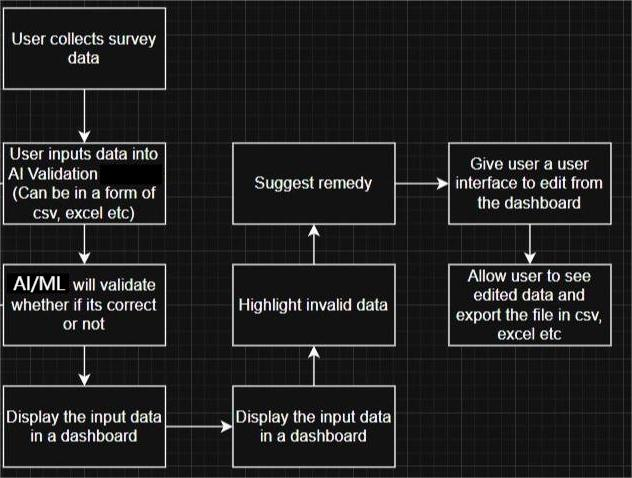
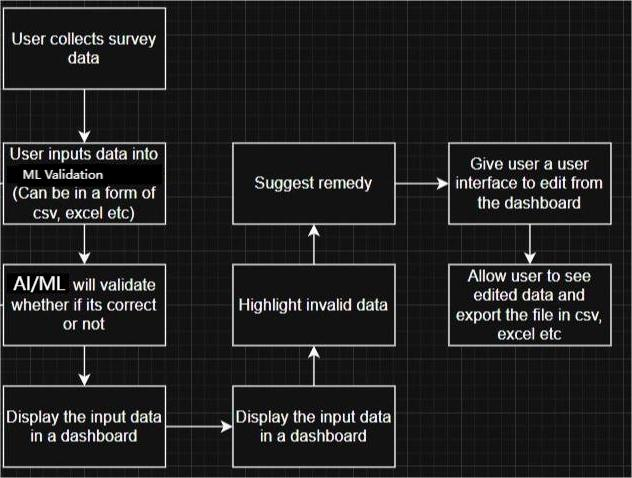
added custom phone validation

Changed region(s): [[0.0, 0.0, 1.0, 1.0], [0.0, 0.3222, 0.1804, 0.3808], [0.0, 0.0, 0.0301, 0.0293]]

diff --git a/streamlit_app.py b/streamlit_app.py
@@ -1,0 +1,48 @@
+import streamlit as st
+import pandas as pd
+from utils.phone_validator import is_phone_number_valid  # Import our validation function
+
+st.set_page_config(page_title="ML-Data-Validator", layout="wide")
+st.title("ML-Data-Validator")
+
+uploaded_file = st.file_uploader("Upload your CSV or Excel file", type=["csv", "xlsx"])
+if uploaded_file:
+    try:
+        # Load CSV or Excel
+        if uploaded_file.name.endswith(".csv"):
+            df = pd.read_csv(uploaded_file)
+        else:
+            df = pd.read_excel(uploaded_file)
+
+        st.subheader("Uploaded Data")
+
+        # ---- Phone Number Validation ----
+        if "PhoneNumber" in df.columns:
+            # Apply our custom validation function
+            df["PhoneNumber_Valid_Flag"] = df["PhoneNumber"].apply(is_phone_number_valid)
+
+            # Function to highlight invalid phone numbers with red border
+            def highlight_invalid_phone(val, valid_flag):
+                return 'background-color: rgba(255, 0, 0, 0.2); color: white;' if not valid_flag else ''
+
+            # Apply styling to dataframe
+            styled_df = df.style.apply(
+                lambda row: [
+                    highlight_invalid_phone(row["PhoneNumber"], row["PhoneNumber_Valid_Flag"])
+                    if col == "PhoneNumber" else ''
+                    for col in df.columns
+                ],
+                axis=1
+            )
+
+            st.dataframe(styled_df)
+        else:
+            st.warning("No PhoneNumber column found in uploaded file.")
+
+        # ---- Detected Issues Summary ----
+        st.subheader("Detected Issues")
+        invalid_count = (~df["PhoneNumber_Valid_Flag"]).sum() if "PhoneNumber_Valid_Flag" in df else 0
+        st.write(f"Invalid Phone Numbers: {invalid_count}")
+
+    except Exception as e:
+        st.error(f"Error reading file: {e}")

diff --git a/ml/train_model.py b/ml/train_model.py
@@ -1,31 +1,15 @@
-import pandas as pd
-from sklearn.model_selection import train_test_split
-from sklearn.ensemble import RandomForestRegressor
-from sklearn.metrics import mean_squared_error
-from sklearn.preprocessing import OneHotEncoder
-import joblib
+# from sklearn.ensemble import RandomForestClassifier
+# from sklearn.model_selection import train_test_split
 
-def train():
-    df = pd.read_csv("data/cleaned_data.csv")
+# df['phone_clean'] = df['phone_number'].apply(clean_phone_number)
+# df['phone_len'] = df['phone_clean'].apply(len)
 
-    X = df[["Name", "Email_Corrected", "Phone_Corrected"]]
-    y = df["Age"]
+# X = df[['phone_len']]
+# y = df['is_valid_phone']  # Make sure this is in the CSV
 
-    # One-hot encode text columns
-    enc = OneHotEncoder(handle_unknown='ignore')
-    X_enc = enc.fit_transform(X)
+# X_train, X_test, y_train, y_test = train_test_split(X, y, test_size=0.2)
+# model = RandomForestClassifier().fit(X_train, y_train)
 
-    X_train, X_test, y_train, y_test = train_test_split(X_enc, y, test_size=0.2)
-
-    model = RandomForestRegressor()
-    model.fit(X_train, y_train)
-
-    y_pred = model.predict(X_test)
-    mse = mean_squared_error(y_test, y_pred)
-
-    print(f"Model trained. MSE: {mse:.2f}")
-    joblib.dump(model, "models/age_model.pkl")
-    joblib.dump(enc, "models/encoder.pkl")
-
-if __name__ == "__main__":
-    train()
+# # Save model
+# import joblib
+# joblib.dump(model, 'ml/model_phone.pkl')

diff --git a/utils/phone_validator.py b/utils/phone_validator.py
@@ -1,0 +1,21 @@
+import phonenumbers
+import re
+
+def is_phone_number_valid(number_str):
+    """Validate phone number using custom rules and phonenumbers library."""
+    number_str = str(number_str).strip()
+
+    # Rule 1: Must not have multiple '+' signs
+    if number_str.count('+') > 1:
+        return False
+
+    # Rule 2: Only digits, spaces, dashes allowed (optional leading '+')
+    if not re.match(r'^\+?\d[\d\s\-]*$', number_str):
+        return False
+
+    # Rule 3: Use phonenumbers library for deep validation
+    try:
+        parsed = phonenumbers.parse(number_str, None)
+        return phonenumbers.is_valid_number(parsed)
+    except phonenumbers.NumberParseException:
+        return False

diff --git a/ml/validation_engine.py b/ml/validation_engine.py
@@ -1,10 +1,9 @@
-import re
+# import joblib
 
-def validate_phone(phone: str):
-    return phone.isdigit() and len(phone) >= 8
+# model = joblib.load("ml/model_phone.pkl")
 
-def validate_blood_sugar(value: float):
-    return 70 <= value <= 200
-
-def validate_report_id(report_id: str):
-    return bool(re.match(r'^ccs\d{4}$', report_id))
+# def validate_phone(phone):
+#     phone_clean = clean_phone_number(phone)
+#     phone_len = len(phone_clean)
+#     prediction = model.predict([[phone_len]])
+#     return prediction[0]

diff --git a/utils/preprocess.py b/utils/preprocess.py
@@ -1,0 +1,12 @@
+# import re
+# import pandas as pd
+
+# def clean_phone_number(phone):
+#     if pd.isnull(phone):
+#         return ""
+#     return re.sub(r"[^\d]", "", str(phone))
+
+# def is_valid_format(phone):
+#     """Assumes SG local numbers or general format for now"""
+#     cleaned = clean_phone_number(phone)
+#     return len(cleaned) >= 8 and len(cleaned) <= 15